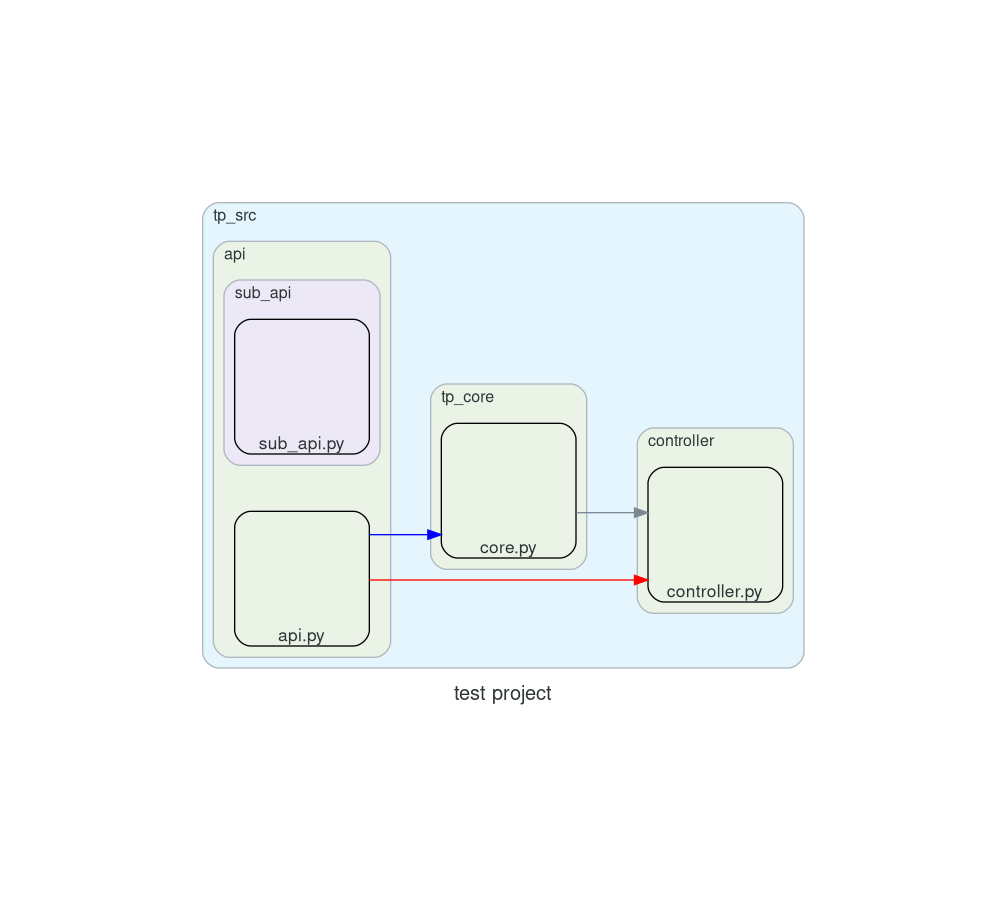
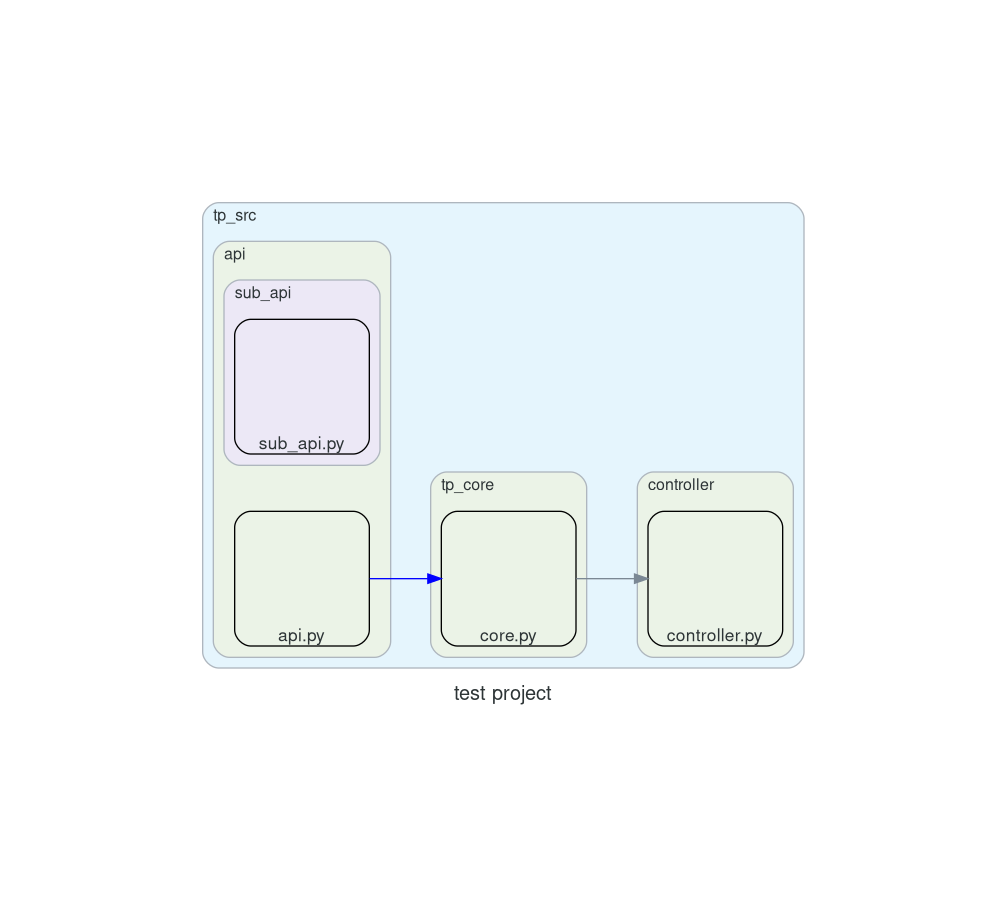
more module and policies

diff --git a/src/core/bt_graph.py b/src/core/bt_graph.py
@@ -7,7 +7,10 @@ import diagrams
 from diagrams.programming.language import Python as pythonNode
 from src.core.bt_module import BTModule
 
-from src.core.policies import BlacklistPolicy, WhitelistPolicy
+from src.core.policies.FilePolicies import (
+    FilePolicyCantDependPolicy,
+    FilePolicyMustDependPolicy,
+)
 
 
 class BTGraph:
@@ -25,8 +28,7 @@ class BTGraph:
             self.DEFAULT_SETTINGS["project"].__file__
         )
         self.target_project_base_location = os.path.dirname(config_path)
-
-        nodes: list[BTFile] = setup()  # TODO !
+        sys.path.append(self.root_module_location)
 
         bt_module_list: list[BTModule] = []
 
@@ -57,7 +59,7 @@ class BTGraph:
         )
 
         # Set BTFiles dependencies
-        btf_map = self.get_all_bf_files_map()
+        btf_map = self.get_all_bt_files_map()
 
         for bt_file in btf_map.values():
             imported_modules = get_imported_modules(
@@ -69,24 +71,25 @@ class BTGraph:
                 if module.file in btf_map
             ]
 
-        for temp_btf in nodes:
-            bt_file = btf_map.get(temp_btf.file)
-            if not bt_file:
-                continue
-            bt_file.policies.extend(temp_btf.policies)
+        update(self)
 
-    def get_all_bf_files_map(self) -> dict[str, BTFile]:
-        def get_bt_files(module: BTModule) -> list[BTFile]:
-            bt_files: dict[str, BTFile] = {}
+    def get_bt_file(self, path: str) -> BTFile:
+        file_path = astroid.MANAGER.ast_from_module_name(path).file
+        bt_file = self.get_all_bt_files_map()[file_path]
+        return bt_file
 
-            bt_files.update({btf.file: btf for btf in module.file_list})
+    def get_bt_module(self, path: str) -> BTModule:
+        path_list = path.split(".")
+        current_module = self.root_module
+        while path_list:
+            current_module = next(
+                filter(lambda e: e.name == path_list[0], current_module.child_module)
+            )
+            path_list.pop(0)
+        return current_module
 
-            for child_module in module.child_module:
-                bt_files.update(get_bt_files(child_module))
-
-            return bt_files
-
-        return get_bt_files(self.root_module)
+    def get_all_bt_files_map(self) -> dict[str, BTFile]:
+        return {btf.file: btf for btf in self.root_module.get_all_files_recursive()}
 
     def _get_files_recursive(self, path: str) -> list[str]:
         file_list = []
@@ -110,9 +113,13 @@ class BTGraph:
         exec(code, globals())
 
     def validate_graph(self) -> bool:
-        for node in self.get_all_bf_files_map().values():
+        for node in self.get_all_bt_files_map().values():
             if not node.validate():
                 print(f"error in node {node.label}")
+                return False
+        for module in self.root_module.get_submodules_recursive():
+            if not module.validate():
+                print(f"error in module {module.name}")
                 return False
         return True
 
@@ -134,15 +141,15 @@ class BTGraph:
                 edges = bt_node.edge_to
                 diagram_node = node_map[bt_node.uid]
                 white_listed_nodes = [
-                    policy.whitelisted_node
+                    policy.must_depend_node
                     for policy in bt_node.policies
-                    if isinstance(policy, WhitelistPolicy)
+                    if isinstance(policy, FilePolicyMustDependPolicy)
                 ]
 
                 black_listed_nodes = [
-                    policy.blacklisted_node
+                    policy.cant_depend_node
                     for policy in bt_node.policies
-                    if isinstance(policy, BlacklistPolicy)
+                    if isinstance(policy, FilePolicyCantDependPolicy)
                 ]
 
                 for edge in edges:
@@ -171,4 +178,8 @@ def setup():
 
 
 def settings():
+    pass  # overridden by config file
+
+
+def update():
     pass  # overridden by config file

diff --git a/src/core/bt_module.py b/src/core/bt_module.py
@@ -2,6 +2,7 @@ import astroid
 import os
 
 from src.core.bt_file import BTFile
+from src.core.policies.ModulePolicies import BTModulePolicy, ModulePolicyCantDepend
 
 
 class BTModule:
@@ -11,11 +12,13 @@ class BTModule:
     file_list: list["BTFile"] = None
 
     ast: astroid.Module = None
+    policies: list[BTModulePolicy] = None
 
     def __init__(self, file_path: str) -> None:
         self.ast = astroid.MANAGER.ast_from_file(file_path)
         self.child_module = []
         self.file_list = []
+        self.policies = []
 
     @property
     def name(self):
@@ -36,3 +39,27 @@ class BTModule:
             bt_file = BTFile(label=file.split("/")[-1])
             bt_file.ast = astroid.MANAGER.ast_from_file(os.path.join(self.path, file))
             self.file_list.append(bt_file)
+
+    def get_all_files_recursive(self) -> list[BTFile]:
+        def inner_function(module: BTModule):
+            temp_file_list = module.file_list.copy()
+            for child_module in module.child_module:
+                temp_file_list.extend(inner_function(child_module))
+            return temp_file_list
+
+        return inner_function(self)
+
+    def get_submodules_recursive(self) -> list["BTModule"]:
+        submodule_list = self.child_module.copy()
+        for submodule in self.child_module:
+            submodule_list.extend(submodule.get_submodules_recursive())
+        return submodule_list
+
+    def validate(self) -> bool:
+        for policy in self.policies:
+            if not policy.validate(self):
+                return False
+        return True
+
+    def cant_depend(self, other: "BTModule"):
+        self.policies.append(ModulePolicyCantDepend(other))

diff --git a/src/core/policies/FilePolicies.py b/src/core/policies/FilePolicies.py
@@ -1,0 +1,31 @@
+class BTFilePolicy:
+    def validate(self, edges: list["BTFile"]) -> bool:
+        raise Exception("validate not implemented")
+
+
+class FilePolicyCantDependPolicy(BTFilePolicy):
+    cant_depend_node: "BTFile" = None
+
+    def __init__(self, cant_depend_node) -> None:
+        super().__init__()
+        self.cant_depend_node = cant_depend_node
+
+    def validate(self, edges: list["BTFile"]) -> bool:
+        for edge in edges:
+            if edge.file == self.cant_depend_node.file:
+                return False
+        return True
+
+
+class FilePolicyMustDependPolicy(BTFilePolicy):
+    must_depend_node: "BTFile" = None
+
+    def __init__(self, must_depend_node) -> None:
+        super().__init__()
+        self.must_depend_node = must_depend_node
+
+    def validate(self, edges: list["BTFile"]) -> bool:
+        for edge in edges:
+            if edge.file == self.must_depend_node.file:
+                return True
+        return False

diff --git a/src/core/bt_file.py b/src/core/bt_file.py
@@ -1,12 +1,16 @@
 import astroid
 from astroid.exceptions import AstroidImportError
 
-from src.core.policies import BTPolicy, BlacklistPolicy, WhitelistPolicy
+from src.core.policies.FilePolicies import (
+    BTFilePolicy,
+    FilePolicyCantDependPolicy,
+    FilePolicyMustDependPolicy,
+)
 
 
 class BTFile:
     label: str = ""
-    policies: list[BTPolicy] = None
+    policies: list[BTFilePolicy] = None
     edge_to: list["BTFile"] = None
     ast = None
 
@@ -60,12 +64,12 @@ class BTFile:
 
             self.edge_to.append(other)
 
-    def blacklist(self, other):
-        policy = BlacklistPolicy(other)
+    def cant_depend(self, other):
+        policy = FilePolicyCantDependPolicy(other)
         self.policies.append(policy)
 
-    def whitelist(self, other):
-        policy = WhitelistPolicy(other)
+    def must_depend(self, other):
+        policy = FilePolicyMustDependPolicy(other)
         self.policies.append(policy)
 
 

diff --git a/test_projects/test_project/test_config.py b/test_projects/test_project/test_config.py
@@ -1,22 +1,16 @@
 from src.core.bt_file import BTFile
+from src.core.bt_graph import BTGraph
 import tp_src as test_project
 
 
-def setup():
-    # return []
-    api_node = BTFile(code_path="tp_src.api.api", label="api")
-    core_node = BTFile(code_path="tp_src.tp_core.core", label="core")
-    controller_node = BTFile(
-        code_path="tp_src.controller.controller", label="controller"
-    )
-    added_node = BTFile(label="Third party api")
+def update(graph: BTGraph):
+    api_file = graph.get_bt_file("api.api")
+    core_file = graph.get_bt_file("tp_core.core")
+    api_file.must_depend(core_file)
 
-    api_node.whitelist(core_node)
-    api_node.blacklist(controller_node)
-
-    api_node >> added_node
-
-    return [api_node, core_node, added_node]
+    api_module = graph.get_bt_module("api")
+    core_module = graph.get_bt_module("tp_core")
+    api_module.cant_depend(core_module)
 
 
 def settings():

diff --git a/test_projects/zeeguu/zeeguu_config.py b/test_projects/zeeguu/zeeguu_config.py
@@ -1,16 +1,21 @@
+from src.core.bt_graph import BTGraph
 import zeeguu
 from src.core.bt_file import BTFile
 
 
-def setup():
-    app_node = BTFile(code_path="zeeguu.api.app", label="encoding")
-    config_node = BTFile(
-        code_path="zeeguu.core.configuration.configuration", label="config"
-    )
+# def setup():
+#     app_node = BTFile(code_path="zeeguu.api.app", label="encoding")
+#     config_node = BTFile(
+#         code_path="zeeguu.core.configuration.configuration", label="config"
+#     )
 
-    app_node.whitelist(config_node)
+#     app_node.must_depend(config_node)
 
-    return [app_node, config_node]
+#     return [app_node, config_node]
+
+
+def update(graph: BTGraph):
+    pass
 
 
 def settings():

diff --git a/src/core/policies/ModulePolicies.py b/src/core/policies/ModulePolicies.py
@@ -1,0 +1,15 @@
+class BTModulePolicy:
+    def validate(self) -> bool:
+        raise Exception("validate not implemented")
+
+
+class ModulePolicyCantDepend(BTModulePolicy):
+    cant_depend_module: "BTModule" = None
+
+    def __init__(self, other) -> None:
+        self.cant_depend_module = other
+        super().__init__()
+
+    def validate(self, module: "BTModule") -> bool:
+        # TODO check that no file is dependent on file in other module
+        super().validate()

diff --git a/test_projects/qtile/qtile_config.py b/test_projects/qtile/qtile_config.py
@@ -1,8 +1,9 @@
 import libqtile as qtile
+from src.core.bt_graph import BTGraph
 
 
-def setup():
-    return []
+def update(graph: BTGraph):
+    t = graph.get_bt_file("widget.bluetooth")
 
 
 def settings():
